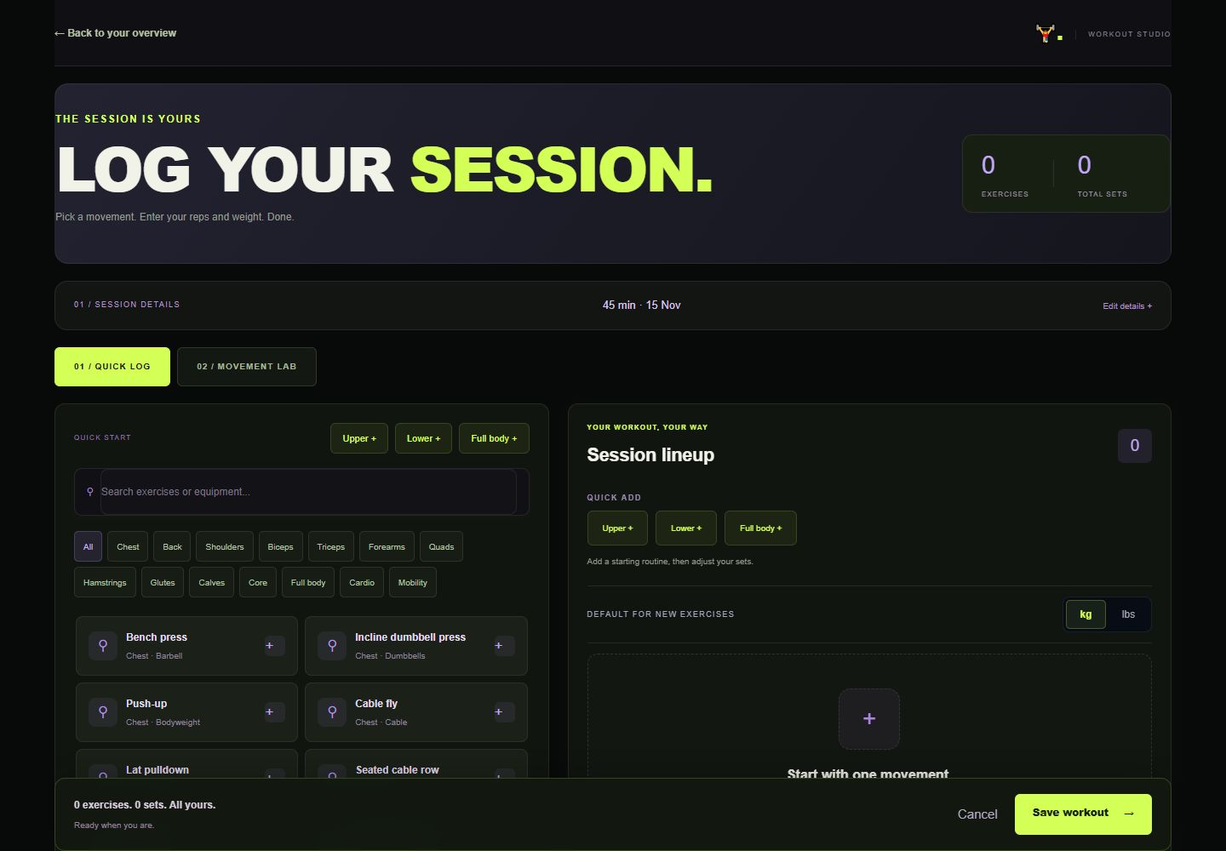
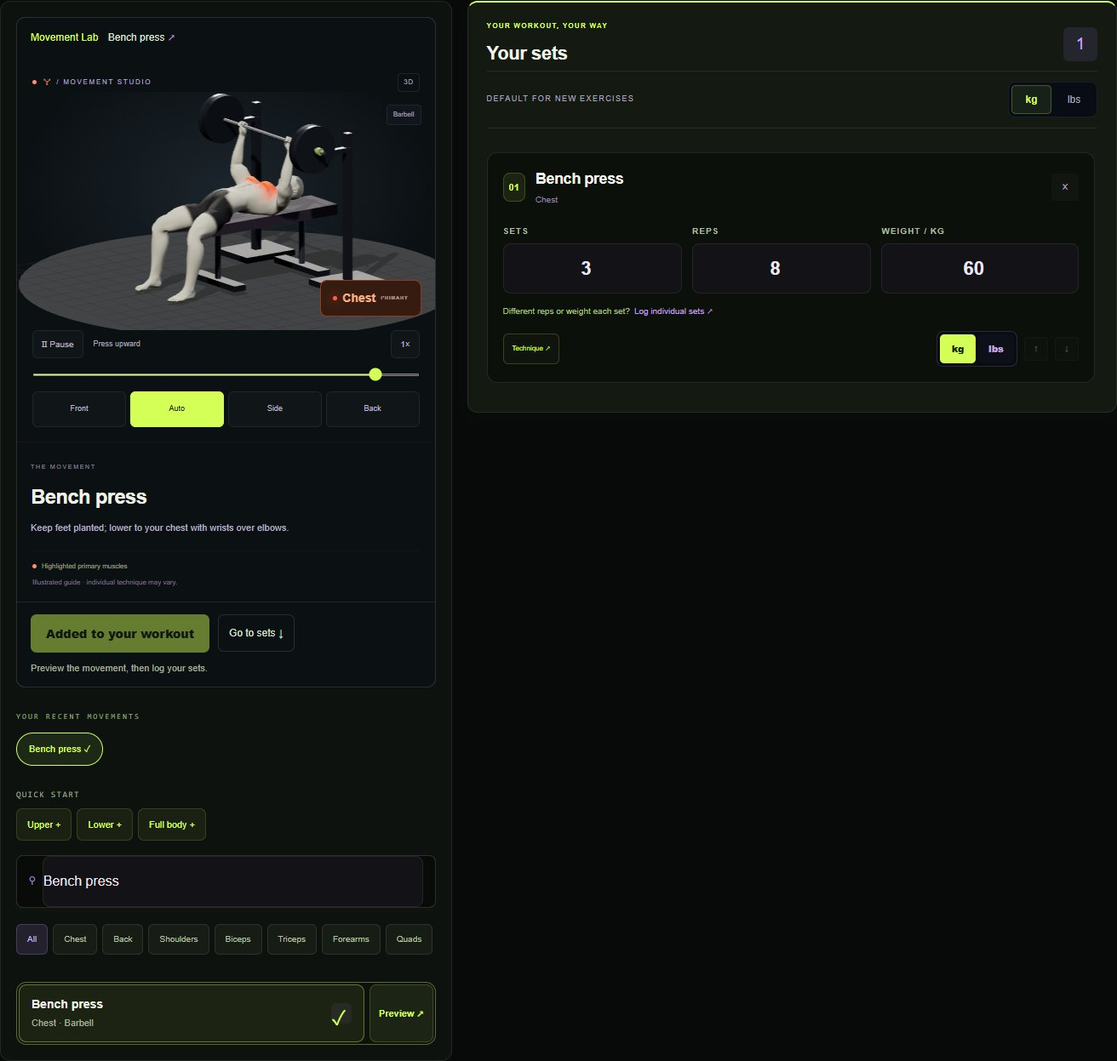
Integrate Movement Lab into workout logging
Keep exercise previews and set entry on one page, preserve draft values while browsing, and document the completed workflow with an updated screenshot.

diff --git a/FE/training-app-frontend/src/performance-club.css b/FE/training-app-frontend/src/performance-club.css
@@ -46,10 +46,8 @@ html[lang][data-theme] body .journey-title h1 em,html[lang][data-theme] body .st
 html[lang][data-theme] body .achievement-filters button.selected,html[lang][data-theme] body .achievement-category button.selected{background:var(--club);color:#17200a;border-color:var(--club)}
 html[lang][data-theme] body .workout-studio{padding:0 34px 110px}html[lang][data-theme] body .studio-nav{height:78px;border-bottom:1px solid var(--line)}html[lang][data-theme] body .studio-nav>a{color:#b6c4a6}html[lang][data-theme] body .studio-brand{color:#f1f3e9;letter-spacing:-1.5px}html[lang][data-theme] body .studio-brand>span{color:var(--club)}html[lang][data-theme] body .studio-hero{padding:32px 0;min-height:0}html[lang][data-theme] body .studio-hero h1{margin:12px 0}html[lang][data-theme] body .hero-summary{background:#171e12;border:1px solid var(--line);border-radius:12px}
 html[lang][data-theme] body .session-basics{background:#101510;border:1px solid var(--line);border-radius:10px;padding:16px 22px;margin-bottom:20px}html[lang][data-theme] body .session-notes{border-radius:10px;background:#111611;border-color:var(--line)}html[lang][data-theme] body .studio-save{background:#121810f5;border-color:#d4ff5630;backdrop-filter:blur(16px)}
-html[lang][data-theme] body .builder-heading{display:none}html[lang][data-theme] body .logging-mode{display:flex;gap:8px;margin:0 0 20px}.logging-mode button{padding:14px 22px;border:1px solid #ffffff20;border-radius:6px;background:#131812;color:#a5b598;font:700 10px monospace;letter-spacing:1px;min-height:46px}.logging-mode button.active{background:var(--club);border-color:var(--club);color:#18200d}
+html[lang][data-theme] body .builder-heading{display:none}.logging-mode button{padding:14px 22px;border:1px solid #ffffff20;border-radius:6px;background:#131812;color:#a5b598;font:700 10px monospace;letter-spacing:1px;min-height:46px}.logging-mode button.active{background:var(--club);border-color:var(--club);color:#18200d}
 html[lang][data-theme] body .builder-grid{gap:22px;grid-template-columns:minmax(0,.9fr) minmax(0,1.1fr)}html[lang][data-theme] body .exercise-library,html[lang][data-theme] body .session-panel{background:#111510;border-color:var(--line);border-radius:12px;padding:22px;min-width:0}
-html[lang][data-theme] body .exercise-builder:not(.guide-mode) .movement-preview,html[lang][data-theme] body .exercise-builder:not(.guide-mode) .body-preview{display:none}
-html[lang][data-theme] body .exercise-builder.guide-mode .builder-grid{grid-template-columns:minmax(0,1fr) minmax(0,1fr)}
 html[lang][data-theme] body .exercise-option{background:#1b2118;border:1px solid #ffffff12;border-radius:8px;min-height:70px;color:#e9eee2}html[lang][data-theme] body .exercise-option.selected,html[lang][data-theme] body .exercise-option[aria-pressed=true]{background:#29341b;border-color:#b9e95480}html[lang][data-theme] body .exercise-option:hover{border-color:var(--club)}html[lang][data-theme] body .option-symbol{color:var(--club)}html[lang][data-theme] body .muscle-filters button{border-color:#ffffff18;background:#171d14;color:#b4c2a5;border-radius:5px;min-height:36px}html[lang][data-theme] body .muscle-filters button.active{background:var(--club);color:#16200c;border-color:var(--club)}
 html[lang][data-theme] body .session-exercise{background:#0b100a;border:1px solid #ffffff12;border-radius:10px;padding:20px}html[lang][data-theme] body .entry-number{background:#d4ff5610;color:var(--club);border-color:#d4ff5630}html[lang][data-theme] body .session-exercise input{background:#192015;border-color:#ffffff20;border-radius:7px;min-height:50px;color:#f2f7e9;font-size:17px}html[lang][data-theme] body .session-exercise label,html[lang][data-theme] body .set-table-head{color:#b3c2a2}html[lang][data-theme] body .entry-footer>span{color:#92a37f;font-size:10px}html[lang][data-theme] body .inline-weight-unit button.active{background:var(--club)!important;color:#17200a!important}
 html[lang][data-theme] body .fast-routines button,html[lang][data-theme] body .quick-add button{background:#d4ff5610;border-color:#d4ff5625;color:var(--club);border-radius:6px}html[lang][data-theme] body .weight-unit-control{border-color:var(--line)}html[lang][data-theme] body .weight-unit-control button.active{color:var(--club);background:#d4ff5614;border-color:#d4ff5640}
@@ -60,7 +58,7 @@ html[lang][data-theme] body .mobile-dock{background:#0d130cf5;border-color:#d4ff
 html[lang][data-theme] body input,html[lang][data-theme] body select,html[lang][data-theme] body textarea{accent-color:var(--club)}html[lang][data-theme] body .install-card{background:#192311;border-color:#d4ff5630}html[lang][data-theme] body .install-card button{background:var(--club);color:#17200a;border:0}
 @media(min-width:1100px){html[lang][data-theme] body .auth-form-side{display:flex;flex-direction:column;justify-content:center}.auth-form-side .top-note{position:absolute;top:42px}}
 @media(max-width:1100px){html[lang][data-theme] body .workspace .rail{width:180px;padding:24px 16px}html[lang][data-theme] body .workspace main{width:calc(100% - 180px);margin-left:180px;padding:0 22px 30px}html[lang][data-theme] body .athlete-hero{grid-template-columns:1fr 210px;padding:30px 24px 56px!important}html[lang][data-theme] body .athlete-hero h1{font-size:54px;letter-spacing:-3px}html[lang][data-theme] body .performance-ticket{padding:20px 16px}.performance-ticket>strong{font-size:26px}html[lang][data-theme] body .dashboard-grid{grid-template-columns:1fr}html[lang][data-theme] body .dashboard-side{display:grid;grid-template-columns:1fr 1fr;gap:16px}html[lang][data-theme] body .journey-summary{grid-template-columns:1fr 1fr}html[lang][data-theme] body .journey-summary .next-tile{grid-column:1/-1}html[lang][data-theme] body .auth-form-side{padding:30px}}
-@media(max-width:750px){html[lang][data-theme] body .workspace .rail{display:none}html[lang][data-theme] body .workspace main{width:100%;margin-left:0;padding:0 16px 100px}html[lang][data-theme] body .workspace-header{height:68px;margin-bottom:16px}html[lang][data-theme] body .today{display:none}html[lang][data-theme] body .athlete-hero{grid-template-columns:1fr;min-height:340px;padding:30px 24px 52px!important}html[lang][data-theme] body .athlete-hero h1{font-size:clamp(43px,10vw,66px);letter-spacing:-2.5px}html[lang][data-theme] body .performance-ticket{display:none}html[lang][data-theme] body .hero-bottom-line{left:24px;right:24px;font-size:7px}html[lang][data-theme] body .hero-bottom-line span:last-child{display:none}html[lang][data-theme] body .stat-grid{grid-template-columns:1fr 1fr}html[lang][data-theme] body .journey-summary{gap:10px}html[lang][data-theme] body .journey-summary>article{padding:18px 14px}html[lang][data-theme] body .streak-number strong{font-size:48px}.milestone-total>strong{font-size:54px}.milestone-total h3{font-size:15px}.milestone-total p{font-size:11px}html[lang][data-theme] body .dashboard-side{grid-template-columns:1fr}html[lang][data-theme] body .collection-grid{grid-template-columns:1fr}html[lang][data-theme] body .collection-card{min-height:220px}html[lang][data-theme] body .journey-page{padding:0 16px 100px}html[lang][data-theme] body .achievement-grid{grid-template-columns:1fr 1fr;gap:10px}html[lang][data-theme] body .achievement-card{padding:18px 14px}html[lang][data-theme] body .achievement-card h3{font-size:16px}html[lang][data-theme] body .journey-title h1{font-size:44px}html[lang][data-theme] body .journey-title{display:block}html[lang][data-theme] body .journey-cta{display:inline-flex;margin-top:16px}html[lang][data-theme] body .journey-detail-grid{grid-template-columns:1fr}html[lang][data-theme] body .workout-studio{padding:0 12px 160px}html[lang][data-theme] body .studio-hero{padding:24px 4px;display:block}html[lang][data-theme] body .studio-hero h1{font-size:44px}html[lang][data-theme] body .hero-summary{display:none}html[lang][data-theme] body .builder-grid,html[lang][data-theme] body .exercise-builder.guide-mode .builder-grid{display:flex;flex-direction:column}html[lang][data-theme] body .exercise-library,html[lang][data-theme] body .session-panel{padding:16px 12px}html[lang][data-theme] body .exercise-options{grid-template-columns:1fr 1fr}html[lang][data-theme] body .exercise-option{font-size:12px;padding:12px;min-height:66px}html[lang][data-theme] body .session-exercise{padding:16px 12px}html[lang][data-theme] body .studio-save{bottom:calc(66px + env(safe-area-inset-bottom));padding:12px 16px;gap:10px}html[lang][data-theme] body .studio-save>div:first-child{display:none}html[lang][data-theme] body .save-buttons{width:100%;justify-content:space-between}html[lang][data-theme] body .studio-save button{min-width:190px}html[lang][data-theme] body .entry-fields{gap:8px}html[lang][data-theme] body .entry-fields label{font-size:9px}html[lang][data-theme] body .session-exercise input{font-size:16px;min-width:0}html[lang][data-theme] body .logging-mode{position:sticky;top:0;z-index:12;background:#080a09;padding:10px 0;margin-bottom:12px}html[lang][data-theme] body .logging-mode button{flex:1;font-size:9px;padding:12px 8px}html[lang][data-theme] body .session-basics{padding:14px 12px}html[lang][data-theme] body .studio-nav{height:64px}html[lang][data-theme] body .studio-brand small{display:none}html[lang][data-theme] body .auth-shell{display:block}html[lang][data-theme] body .auth-story{min-height:0;padding:24px;background-position:center 45%}html[lang][data-theme] body .story-body{padding:35px 0 20px}html[lang][data-theme] body .story-body h1{font-size:clamp(38px,11vw,58px);letter-spacing:-2px;margin:14px 0}html[lang][data-theme] body .story-copy,html[lang][data-theme] body .story-footer{display:none}html[lang][data-theme] body .auth-form-side{padding:32px 24px 45px}html[lang][data-theme] body .top-note{display:none}html[lang][data-theme] body .auth-form-content h2{font-size:44px}html[lang][data-theme] body .auth-form-content{max-width:460px}html[lang][data-theme] body .auth-form-content input{font-size:16px}.session-promise{font-size:10px}html[lang][data-theme] body .journey-mobile-nav{display:none}}
+@media(max-width:750px){html[lang][data-theme] body .workspace .rail{display:none}html[lang][data-theme] body .workspace main{width:100%;margin-left:0;padding:0 16px 100px}html[lang][data-theme] body .workspace-header{height:68px;margin-bottom:16px}html[lang][data-theme] body .today{display:none}html[lang][data-theme] body .athlete-hero{grid-template-columns:1fr;min-height:340px;padding:30px 24px 52px!important}html[lang][data-theme] body .athlete-hero h1{font-size:clamp(43px,10vw,66px);letter-spacing:-2.5px}html[lang][data-theme] body .performance-ticket{display:none}html[lang][data-theme] body .hero-bottom-line{left:24px;right:24px;font-size:7px}html[lang][data-theme] body .hero-bottom-line span:last-child{display:none}html[lang][data-theme] body .stat-grid{grid-template-columns:1fr 1fr}html[lang][data-theme] body .journey-summary{gap:10px}html[lang][data-theme] body .journey-summary>article{padding:18px 14px}html[lang][data-theme] body .streak-number strong{font-size:48px}.milestone-total>strong{font-size:54px}.milestone-total h3{font-size:15px}.milestone-total p{font-size:11px}html[lang][data-theme] body .dashboard-side{grid-template-columns:1fr}html[lang][data-theme] body .collection-grid{grid-template-columns:1fr}html[lang][data-theme] body .collection-card{min-height:220px}html[lang][data-theme] body .journey-page{padding:0 16px 100px}html[lang][data-theme] body .achievement-grid{grid-template-columns:1fr 1fr;gap:10px}html[lang][data-theme] body .achievement-card{padding:18px 14px}html[lang][data-theme] body .achievement-card h3{font-size:16px}html[lang][data-theme] body .journey-title h1{font-size:44px}html[lang][data-theme] body .journey-title{display:block}html[lang][data-theme] body .journey-cta{display:inline-flex;margin-top:16px}html[lang][data-theme] body .journey-detail-grid{grid-template-columns:1fr}html[lang][data-theme] body .workout-studio{padding:0 12px 160px}html[lang][data-theme] body .studio-hero{padding:24px 4px;display:block}html[lang][data-theme] body .studio-hero h1{font-size:44px}html[lang][data-theme] body .hero-summary{display:none}html[lang][data-theme] body .builder-grid{display:flex;flex-direction:column}html[lang][data-theme] body .exercise-library,html[lang][data-theme] body .session-panel{padding:16px 12px}html[lang][data-theme] body .exercise-options{grid-template-columns:1fr 1fr}html[lang][data-theme] body .exercise-option{font-size:12px;padding:12px;min-height:66px}html[lang][data-theme] body .session-exercise{padding:16px 12px}html[lang][data-theme] body .studio-save{bottom:calc(66px + env(safe-area-inset-bottom));padding:12px 16px;gap:10px}html[lang][data-theme] body .studio-save>div:first-child{display:none}html[lang][data-theme] body .save-buttons{width:100%;justify-content:space-between}html[lang][data-theme] body .studio-save button{min-width:190px}html[lang][data-theme] body .entry-fields{gap:8px}html[lang][data-theme] body .entry-fields label{font-size:9px}html[lang][data-theme] body .session-exercise input{font-size:16px;min-width:0}html[lang][data-theme] body .session-basics{padding:14px 12px}html[lang][data-theme] body .studio-nav{height:64px}html[lang][data-theme] body .studio-brand small{display:none}html[lang][data-theme] body .auth-shell{display:block}html[lang][data-theme] body .auth-story{min-height:0;padding:24px;background-position:center 45%}html[lang][data-theme] body .story-body{padding:35px 0 20px}html[lang][data-theme] body .story-body h1{font-size:clamp(38px,11vw,58px);letter-spacing:-2px;margin:14px 0}html[lang][data-theme] body .story-copy,html[lang][data-theme] body .story-footer{display:none}html[lang][data-theme] body .auth-form-side{padding:32px 24px 45px}html[lang][data-theme] body .top-note{display:none}html[lang][data-theme] body .auth-form-content h2{font-size:44px}html[lang][data-theme] body .auth-form-content{max-width:460px}html[lang][data-theme] body .auth-form-content input{font-size:16px}.session-promise{font-size:10px}html[lang][data-theme] body .journey-mobile-nav{display:none}}
 @media(prefers-reduced-motion:reduce){*,*:before,*:after{scroll-behavior:auto!important;animation:none!important;transition:none!important}}
 
 /* IRONFORM wordmark fits narrow navigation and mobile headers. */

diff --git a/FE/training-app-frontend/src/app/components/exercise-picker/exercise-picker.component.html b/FE/training-app-frontend/src/app/components/exercise-picker/exercise-picker.component.html
@@ -1,15 +1,29 @@
-<section class="exercise-builder" [class.guide-mode]="entryMode === 'guide'">
-<div class="logging-mode" role="group" aria-label="Workout entry mode"><button type="button" [class.active]="entryMode === 'log'" (click)="entryMode = 'log'; guideOpen = false">LOG WORKOUT</button><button type="button" [class.active]="entryMode === 'guide'" (click)="entryMode = 'guide'; guideOpen = true">MOVEMENT LAB</button></div>
+<section class="exercise-builder">
   <header class="builder-heading">
     <div>
       <p class="eyebrow">CHOOSE / LOG / SAVE</p>
       <h2>Make it count<span>.</span></h2>
       <p>Your exercises. Your numbers. One clear session.</p>
     </div>
-    <span class="selection-count">{{ entryMode === 'guide' ? catalog.length + ' movements' : selected.length + ' / 40 selected' }}</span>
+    <span class="selection-count">{{ selected.length }} / 40 selected</span>
   </header>
   <div class="builder-grid">
     <div class="exercise-library">
+      <details class="movement-preview integrated-preview" id="movement-preview" [open]="guideOpen" (toggle)="guideOpen = $any($event.target).open">
+        <summary>Movement Lab <span>{{ previewExercise?.name || 'Preview an exercise' }}</span></summary>
+        @if (guideOpen) {
+          @if (previewExercise; as movement) {
+            <app-movement-guide [exercise]="movement" />
+            <div class="preview-action">
+              <button type="button" class="preview-add" (click)="chooseExercise(movement)" [disabled]="disabled || has(movement.id) || selected.length >= 40">
+                {{ has(movement.id) ? 'Added to your workout' : '+ Add to workout' }}
+              </button>
+              @if (selected.length) {<button type="button" class="preview-sets" (click)="editSelected()">Go to sets &#8595;</button>}
+              <span>Preview the movement, then log your sets.</span>
+            </div>
+          }
+        }
+      </details>
       @if (recentExercises.length) {<div class="recent-movements"><span>YOUR RECENT MOVEMENTS</span><div>@for (id of recentExercises; track id) {@if (definition(id); as exercise) {<button type="button" [disabled]="disabled" (click)="chooseExercise(exercise)" [class.chosen]="has(id)">{{exercise.name}} {{has(id) ? '&#10003;' : '+'}}</button>}}</div></div>}
       <div class="fast-routines">
         <span>QUICK START</span>
@@ -56,15 +70,16 @@
       }
       <div class="exercise-cards">
         @for (exercise of visible; track exercise.id) {
+          <div class="exercise-choice" [class.previewing]="previewExercise?.id === exercise.id && guideOpen">
           <button
             type="button"
             class="exercise-option"
-            [class.added]="entryMode === 'guide' ? preview?.id === exercise.id : has(exercise.id)"
+            [class.added]="has(exercise.id)"
             [disabled]="
-              disabled || (entryMode === 'log' && !has(exercise.id) && selected.length >= 40)
+              disabled || (!has(exercise.id) && selected.length >= 40)
             "
             (click)="chooseExercise(exercise)"
-            [attr.aria-pressed]="entryMode === 'guide' ? preview?.id === exercise.id : has(exercise.id)"
+            [attr.aria-pressed]="has(exercise.id)"
           >
             <span class="exercise-symbol" aria-hidden="true">
               @if (exercise.timed) {
@@ -79,15 +94,15 @@
                 {{ exercise.equipment }}</small
               ></span
             ><span class="add-symbol" aria-hidden="true">
-              @if (entryMode === 'guide') {
-                &#8599;
-              } @else if (has(exercise.id)) {
+              @if (has(exercise.id)) {
                 &#10003;
               } @else {
                 +
               }
             </span>
           </button>
+          <button type="button" class="preview-exercise" [disabled]="disabled" (click)="showTechnique(exercise.id)" [attr.aria-label]="'Preview ' + exercise.name" aria-controls="movement-preview" [attr.aria-expanded]="previewExercise?.id === exercise.id && guideOpen">Preview &#8599;</button>
+          </div>
         }
       </div>
       @if (!loading && !error && visible.length === 0) {
@@ -96,22 +111,12 @@
         </p>
       }
     </div>
-    @if (selected.length && entryMode === 'log') {
+    @if (selected.length) {
       <button class="edit-selected" type="button" (click)="editSelected()">
         Edit {{ selected.length }} selected exercises ↓
       </button>
     }
     <aside class="session-panel" id="session-lineup">
-      <details class="movement-preview" [open]="guideOpen" (toggle)="guideOpen = $any($event.target).open">
-        <summary>
-          Movement lab ·
-          {{
-            preview?.name ||
-              (catalog.length ? catalog[0].name : 'Choose an exercise')
-          }}
-        </summary>
-        @if (guideOpen) {<app-movement-guide [exercise]="preview || catalog[0]" />}
-      </details>
       <div class="session-heading">
         <div>
           <p class="eyebrow">YOUR WORKOUT, YOUR WAY</p>
@@ -132,7 +137,7 @@
           <span aria-hidden="true">+</span>
           <h4>Start with one movement.</h4>
           <p>
-            Select exercises on the left to log sets, reps or time, and weight.
+            Preview a movement, then add it to log sets, reps or time, and weight.
           </p>
           <small>You can also save a session summary without exercises.</small>
         </div>

diff --git a/FE/training-app-frontend/src/focused-ui.css b/FE/training-app-frontend/src/focused-ui.css
@@ -8,9 +8,6 @@ html[lang][data-theme] body .hero-summary strong{color:var(--club);font-variant-
 html[lang][data-theme] body .builder-heading{padding:20px 0 16px;margin:0}
 html[lang][data-theme] body .builder-heading h2{font-size:28px;letter-spacing:-1px;margin:6px 0}
 html[lang][data-theme] body .builder-heading p:not(.eyebrow){display:none}
-html[lang][data-theme] body .logging-mode{display:flex;gap:6px;padding:5px;background:#141a12;border:1px solid #ffffff12;border-radius:12px}
-html[lang][data-theme] body .logging-mode button{border:0;border-radius:8px;min-height:48px;flex:1;color:#aab6a1;background:transparent;font-weight:800;letter-spacing:1px}
-html[lang][data-theme] body .logging-mode button.active{background:var(--club);color:#17200a}
 html[lang][data-theme] body .builder-grid{grid-template-columns:minmax(280px,.82fr) minmax(0,1.18fr);gap:18px;align-items:start}
 html[lang][data-theme] body .exercise-library{padding:18px;background:#0e120e}
 html[lang][data-theme] body .session-panel{padding:22px;border-top:2px solid var(--club);background:#141a12;position:sticky;top:18px}
@@ -60,12 +57,11 @@ html[lang][data-theme] body .workspace-header{border-color:#ffffff20}
 html[lang][data-theme] body .rail-note{display:none}
 html[lang][data-theme] body button:disabled{opacity:.45;cursor:not-allowed}
 @media(max-width:750px){
-html[lang][data-theme] body .builder-grid,html[lang][data-theme] body .exercise-builder.guide-mode .builder-grid{display:flex;flex-direction:column;gap:14px}
+html[lang][data-theme] body .builder-grid{display:flex;flex-direction:column;gap:14px}
 html[lang][data-theme] body .session-panel{position:static;width:100%;padding:16px 12px}
 html[lang][data-theme] body .exercise-library{width:100%;padding:14px 10px}
 html[lang][data-theme] body .exercise-cards{max-height:300px;grid-template-columns:1fr}
 html[lang][data-theme] body .studio-hero{padding:26px 20px;gap:20px}
-html[lang][data-theme] body .logging-mode{top:0;z-index:15}
 html[lang][data-theme] body .studio-viewport{height:380px}
 html[lang][data-theme] body .studio-save{padding:10px 14px;border-radius:10px}
 html[lang][data-theme] body .studio-save button{min-width:0;min-height:48px;padding:12px 22px}
@@ -74,10 +70,6 @@ html[lang][data-theme] body .builder-heading h2{font-size:24px}
 }
 @media(prefers-reduced-motion:reduce){html{scroll-behavior:auto}*,*::before,*::after{animation-duration:.01ms!important;transition-duration:.01ms!important}}
 
-html[lang][data-theme] body .exercise-builder.guide-mode :is(.fast-routines,.session-heading,.weight-unit-control,.empty-session,.session-exercises,.exercise-validation){display:none}
-html[lang][data-theme] body .exercise-builder.guide-mode .session-panel{padding:0;border-top:0;background:transparent}
-html[lang][data-theme] body .exercise-builder.guide-mode .movement-preview{margin:0;border:0}
-html[lang][data-theme] body .exercise-builder.guide-mode .recent-movements{display:none}
 
 /* Consistent breathing room inside cards and form controls. */
 html[lang][data-theme] body .studio-hero>div:first-child{min-width:0}
@@ -101,3 +93,22 @@ html[lang][data-theme] body .exercise-library,html[lang][data-theme] body .sessi
 html[lang][data-theme] body .session-exercise{padding:18px 16px}
 html[lang][data-theme] body .quick-details-summary strong{font-size:12px}
 }
+
+/* One workflow: preview in the library, enter sets alongside it. */
+html[lang][data-theme] body .exercise-builder .movement-preview{display:block;margin:0 0 22px;border:1px solid #ffffff20;border-radius:10px;overflow:hidden;background:#0b1013}
+html[lang][data-theme] body .integrated-preview>summary{padding:14px 16px;color:var(--club);font-size:12px;cursor:pointer;line-height:1.6}
+html[lang][data-theme] body .integrated-preview>summary>span{color:#d9e3d2;margin-left:8px}
+html[lang][data-theme] body .integrated-preview .movement-studio{border:0;border-radius:0;margin:0}
+html[lang][data-theme] body .integrated-preview .studio-viewport{height:280px}
+html[lang][data-theme] body .integrated-preview .studio-copy{padding:16px}
+html[lang][data-theme] body .preview-action{display:flex;align-items:center;gap:10px;flex-wrap:wrap;padding:14px 16px;border-top:1px solid #ffffff18}
+html[lang][data-theme] body .preview-add{background:var(--club);color:#17200a;border:0;border-radius:7px;min-height:44px;padding:12px 18px;font-weight:800}
+html[lang][data-theme] body .preview-action>span{font-size:11px;line-height:1.5;color:#a4b09a}
+html[lang][data-theme] body .exercise-choice{display:grid;grid-template-columns:minmax(0,1fr) auto;gap:6px;align-items:stretch;border-radius:9px}
+html[lang][data-theme] body .exercise-choice.previewing{outline:1px solid #d4ff5660;outline-offset:2px}
+html[lang][data-theme] body .exercise-choice .exercise-option{width:100%;min-width:0}
+html[lang][data-theme] body .preview-exercise{padding:10px;min-width:70px;border:1px solid #d4ff5630;border-radius:8px;background:#1b2415;color:var(--club);font-size:11px;font-weight:700}
+html[lang][data-theme] body .preview-exercise:hover{background:#2a371e}
+@media(max-width:750px){html[lang][data-theme] body .integrated-preview .studio-viewport{height:260px}}
+
+html[lang][data-theme] body .preview-sets{min-height:44px;padding:10px 12px;border:1px solid #ffffff20;border-radius:7px;background:transparent;color:#d9e3d2;font-size:12px}

diff --git a/FE/training-app-frontend/src/app/components/exercise-picker/exercise-picker.component.spec.ts b/FE/training-app-frontend/src/app/components/exercise-picker/exercise-picker.component.spec.ts
@@ -1,4 +1,4 @@
-import { Component } from '@angular/core';
+import { Component, Input } from '@angular/core';
 import { TestBed } from '@angular/core/testing';
 import { FormsModule, NgForm } from '@angular/forms';
 import { By } from '@angular/platform-browser';
@@ -8,7 +8,8 @@ import {
   HttpTestingController,
 } from '@angular/common/http/testing';
 import { ExercisePickerComponent } from './exercise-picker.component';
-import { WorkoutExercise } from '../../models/exercise.model';
+import { ExerciseDefinition, WorkoutExercise } from '../../models/exercise.model';
+import { MovementGuideComponent } from './movement-guide.component';
 import { API_BASE_URL } from '../../api.config';
 
 const catalog = [
@@ -27,6 +28,10 @@ const catalog = [
     timed: true,
   },
 ];
+@Component({selector: 'app-movement-guide', standalone: true, template: '<p>Movement preview: {{ exercise?.name }}</p>'})
+class MovementPreviewStub {
+  @Input() exercise?: ExerciseDefinition;
+}
 @Component({
   standalone: true,
   imports: [FormsModule, ExercisePickerComponent],
@@ -53,19 +58,46 @@ describe('Exercise picker', () => {
     if (originalExerciseUnits === null) localStorage.removeItem('form.exerciseWeightUnits');
     else localStorage.setItem('form.exerciseWeightUnits', originalExerciseUnits);
   });
-  it('inspects movements without changing the workout in Movement Lab', async () => {
+  it('previews and adds exercises in the logger without changing existing set values', async () => {
     const { fixture, requests } = await setup();
     const picker = fixture.debugElement.query(By.directive(ExercisePickerComponent)).componentInstance as ExercisePickerComponent;
-    picker.toggle(catalog[0]);
-    picker.entryMode = 'guide';
-    picker.chooseExercise(catalog[0]);
-    expect(picker.selected.length).toBe(1);
-    picker.chooseExercise(catalog[1]);
-    expect(picker.selected.length).toBe(1);
+    expect(fixture.nativeElement.querySelector('.logging-mode')).toBeNull();
+    fixture.nativeElement.querySelector('[aria-label="Preview Bench press"]').click();
+    fixture.detectChanges();
+    expect(picker.selected.length).toBe(0);
+    expect(fixture.nativeElement.querySelector('app-movement-guide').textContent).toContain('Bench press');
+    fixture.nativeElement.querySelector('.preview-add').click();
+    fixture.detectChanges();
+    await fixture.whenStable();
+    picker.selected[0].reps = 8;
+    picker.selected[0].weightKg = 42.5;
+    picker.update();
+    fixture.detectChanges();
+    fixture.nativeElement.querySelector('[aria-label="Preview Plank"]').click();
+    fixture.detectChanges();
+    await fixture.whenStable();
     expect(picker.preview?.id).toBe('plank');
-    picker.entryMode = 'log';
-    picker.chooseExercise(catalog[1]);
-    expect(picker.selected.length).toBe(2);
+    expect(picker.selected.length).toBe(1);
+    expect(picker.selected[0].reps).toBe(8);
+    expect(picker.selected[0].weightKg).toBe(42.5);
+    expect(fixture.nativeElement.querySelector('input[aria-label="Reps for bench-press"]').value).toBe('8');
+    expect(fixture.nativeElement.querySelector('app-movement-guide').textContent).toContain('Plank');
+    requests.verify();
+    fixture.destroy();
+  });
+  it('keeps set entry available when the integrated preview is closed or reopened', async () => {
+    const { fixture, requests } = await setup();
+    const picker = fixture.debugElement.query(By.directive(ExercisePickerComponent)).componentInstance as ExercisePickerComponent;
+    picker.chooseExercise(catalog[0]);
+    picker.guideOpen = false;
+    fixture.detectChanges();
+    expect(fixture.nativeElement.querySelector('app-movement-guide')).toBeNull();
+    expect(fixture.nativeElement.querySelector('.session-exercise')).not.toBeNull();
+    picker.showTechnique('bench-press');
+    fixture.detectChanges();
+    expect(fixture.nativeElement.querySelector('app-movement-guide')).not.toBeNull();
+    expect(fixture.nativeElement.querySelector('.session-exercise')).not.toBeNull();
+    expect(picker.selected.length).toBe(1);
     requests.verify();
     fixture.destroy();
   });
@@ -114,6 +146,10 @@ describe('Exercise picker', () => {
     TestBed.configureTestingModule({
       imports: [Host],
       providers: [provideHttpClient(), provideHttpClientTesting()],
+    });
+    TestBed.overrideComponent(ExercisePickerComponent, {
+      remove: {imports: [MovementGuideComponent]},
+      add: {imports: [MovementPreviewStub]},
     });
     const fixture = TestBed.createComponent(Host);
     const requests = TestBed.inject(HttpTestingController);

diff --git a/FE/training-app-frontend/src/app/components/exercise-picker/exercise-picker.component.ts b/FE/training-app-frontend/src/app/components/exercise-picker/exercise-picker.component.ts
@@ -64,8 +64,10 @@ export class ExercisePickerComponent
   private weightInputs = new WeakMap<WeightEntry, { unit: WeightUnit; value: number | null; kg: number }>();
   bodySide = 'Front';
   preview?:ExerciseDefinition;
-  guideOpen=false;
-  entryMode: 'log' | 'guide' = 'log';
+  guideOpen = true;
+  get previewExercise(): ExerciseDefinition | undefined {
+    return this.preview ?? this.catalog[0];
+  }
   showAllExercises = false;
   get recentExercises() {
     try { return JSON.parse(localStorage.getItem('form.recentExercises') ?? '[]') as string[]; } catch { return []; }
@@ -267,16 +269,13 @@ export class ExercisePickerComponent
   }
   chooseExercise(exercise: ExerciseDefinition) {
     if (this.disabled) return;
-    if (this.entryMode === 'guide') {
-      this.preview = exercise;
-      this.guideOpen = true;
-      return;
-    }
+    this.guideOpen = true;
     this.toggle(exercise);
   }
   showTechnique(id: string) {
-    this.preview = this.definition(id);
-    this.entryMode = 'guide';
+    const exercise = this.definition(id);
+    if (this.disabled || !exercise) return;
+    this.preview = exercise;
     this.guideOpen = true;
     requestAnimationFrame(() => document.querySelector('.movement-preview')?.scrollIntoView({ behavior: matchMedia('(prefers-reduced-motion: reduce)').matches ? 'instant' : 'smooth', block: 'start' }));
   }

diff --git a/README.md b/README.md
@@ -4,7 +4,7 @@
 [![SQL Server tests](https://github.com/markom2002/TrainingApp/actions/workflows/sql-server.yml/badge.svg)](https://github.com/markom2002/TrainingApp/actions/workflows/sql-server.yml)
 [![Container smoke test](https://github.com/markom2002/TrainingApp/actions/workflows/containers.yml/badge.svg)](https://github.com/markom2002/TrainingApp/actions/workflows/containers.yml)
 
-A personal training journal built with **Angular 19, ASP.NET Core 8, EF Core and SQL Server**. Log workouts and individual exercises, track progress, and manage a private athlete profile. Designed for local use and portfolio demonstrations.
+A complete personal gym journal built with **Angular 19, ASP.NET Core 8, EF Core and SQL Server**. Preview exercises in 3D while logging your sets, follow your progress and manage your private training history. Available as a local full-stack application, an installable phone app and an isolated interactive portfolio demo.
 
 **Start here:** [Docker + HTTPS](docs/CONTAINERS.md) · [Isolated demo setup](docs/DEMO.md) · [SQL Server tests](docs/SQL-TESTS.md) · [API operations](docs/OPERATIONS.md)
 
@@ -30,11 +30,11 @@ The application is a modular monolith. The server enforces ownership; offline re
 ## Portfolio walkthrough
 
 1. Open the [public browser demo](https://markom2002.github.io/TrainingApp/) and select **Explore browser demo**, or run the [server-backed demo](docs/DEMO.md) locally.
-2. Inspect mixed kg/lbs history and record individual sets.
-3. Prepare offline access, save a workout without connectivity and reconnect to synchronize it.
+2. Open **Log Workout**, use **Preview** to inspect an exercise in the embedded Movement Lab, then add it and enter your sets on the same screen.
+3. Explore your history, records and goals. In the full-stack installation, prepare offline access, save a workout without connectivity and reconnect to synchronize it.
 4. Inspect the SQL Server concurrency tests and GitHub Actions reports.
 
-The demo is intentionally separate from personal training data. Hosting and retention configuration remain deployment tasks, documented in the demo guide.
+The public demo uses isolated sample data. Personal workouts and account data belong to your own full-stack installation; see the [demo guide](docs/DEMO.md) for deployment configuration.
 
 ## Screenshots
 
@@ -42,14 +42,14 @@ Screenshots use synthetic sample data and mocked API responses; they are UI prev
 
 ![Desktop dashboard](docs/screenshots/dashboard-1440.jpg)
 
-| Phone dashboard | Workout logger |
+| Phone dashboard | Log Workout with Movement Lab |
 | --- | --- |
 | ![Phone dashboard](docs/screenshots/dashboard-390.jpg) | ![Workout logger](docs/screenshots/workout-logger.jpg) |
 
 ## Features
 
 - **Log Workout:** searchable exercise library, recent movements, Upper/Lower/Full body starting routines and a clear session lineup. Record sets, reps or seconds and load, use individual set entries, reorder exercises and repeat an earlier workout into a new draft. Session details and optional notes are collapsible.
-- **Movement Lab:** local 3D demonstrations for all 48 catalog exercises, highlighted primary muscles, automatic/front/side/back cameras, play/pause, half-speed playback and position scrubbing. Technique previews are separate from workout selection. See [movement implementation and checks](MOVEMENT-GUIDES.md).
+- **Movement Lab:** local 3D demonstrations for all 48 catalog exercises, highlighted primary muscles, automatic/front/side/back cameras, play/pause, half-speed playback and position scrubbing. The preview sits inside Log Workout alongside set entry. Preview any exercise without changing your sets, then add it directly from the animation. See [movement implementation and checks](MOVEMENT-GUIDES.md).
 - **Responsive interface:** dark charcoal surfaces, lime accents, readable form controls and consistent card padding on phone, tablet and desktop. Each exercise has its own kg/lbs preference.
 - **Your journey:** recovery-friendly workout-day streaks, 10 achievement milestones, added-weight personal records and optional body-weight goals with weigh-in history.
 - **Installable app:** Android/iPhone/desktop PWA manifest, lightning icon, install guidance, mobile navigation, cached screens and offline entry with retry-safe synchronization. See [personal phone installation](LICNA-APLIKACIJA.md) and [mobile app setup](MOBILNA-APLIKACIJA.md).

diff --git a/MOVEMENT-GUIDES.md b/MOVEMENT-GUIDES.md
@@ -4,7 +4,7 @@
 
 Movement Lab prikazuje svih 48 vježbi iz kataloga koristeći lokalni skinned model `athlete-v3.glb`. Porijeklo modela i CC0 licenca opisani su u [dokumentaciji modela](FE/training-app-frontend/public/models/README.md). Model, sprave, šipke, bučice i sajle učitavaju se iz aplikacije.
 
-Log Workout služi za izbor vježbi i unos serija. Movement Lab služi za pregled tehnike; izbor vježbe u njemu ne mijenja spremljeni nacrt treninga. Dugme Technique uz odabranu vježbu otvara njen prikaz.
+Movement Lab je ugrađen u Log Workout, uz biblioteku vježbi i unos serija. Dugme Preview uz vježbu mijenja animaciju bez promjene unesenih serija. Iz pregleda se vježba može dodati direktno u trening, a Technique uz već odabranu vježbu otvara isti prikaz. Pregled se može sklopiti dok unos serija ostaje dostupan.
 
 Kontrole uključuju Auto, Front, Side i Back kameru, Play/Pause, 0.5×/1× i klizač položaja. Kadar obuhvata uzorke cijelog pokreta i ostaje stabilan tokom ponavljanja. Bočni pogled na paralelne šipke ima blagi otklon da stub ne zaklanja figuru. Ciljna mišićna grupa označena je koralno-narandžastom bojom; reverse fly i face pull izdvajaju zadnje rame.
 
